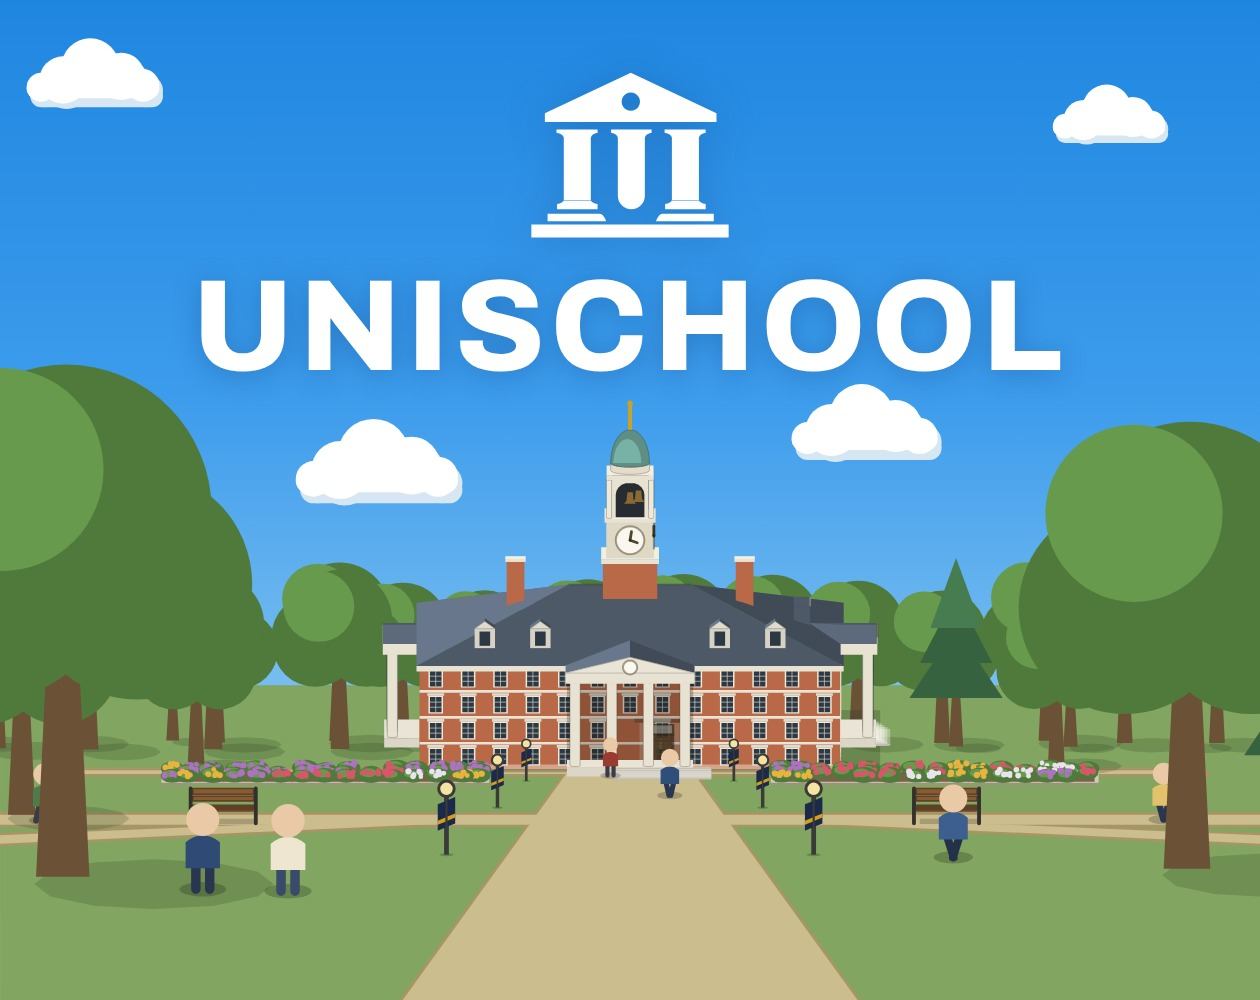
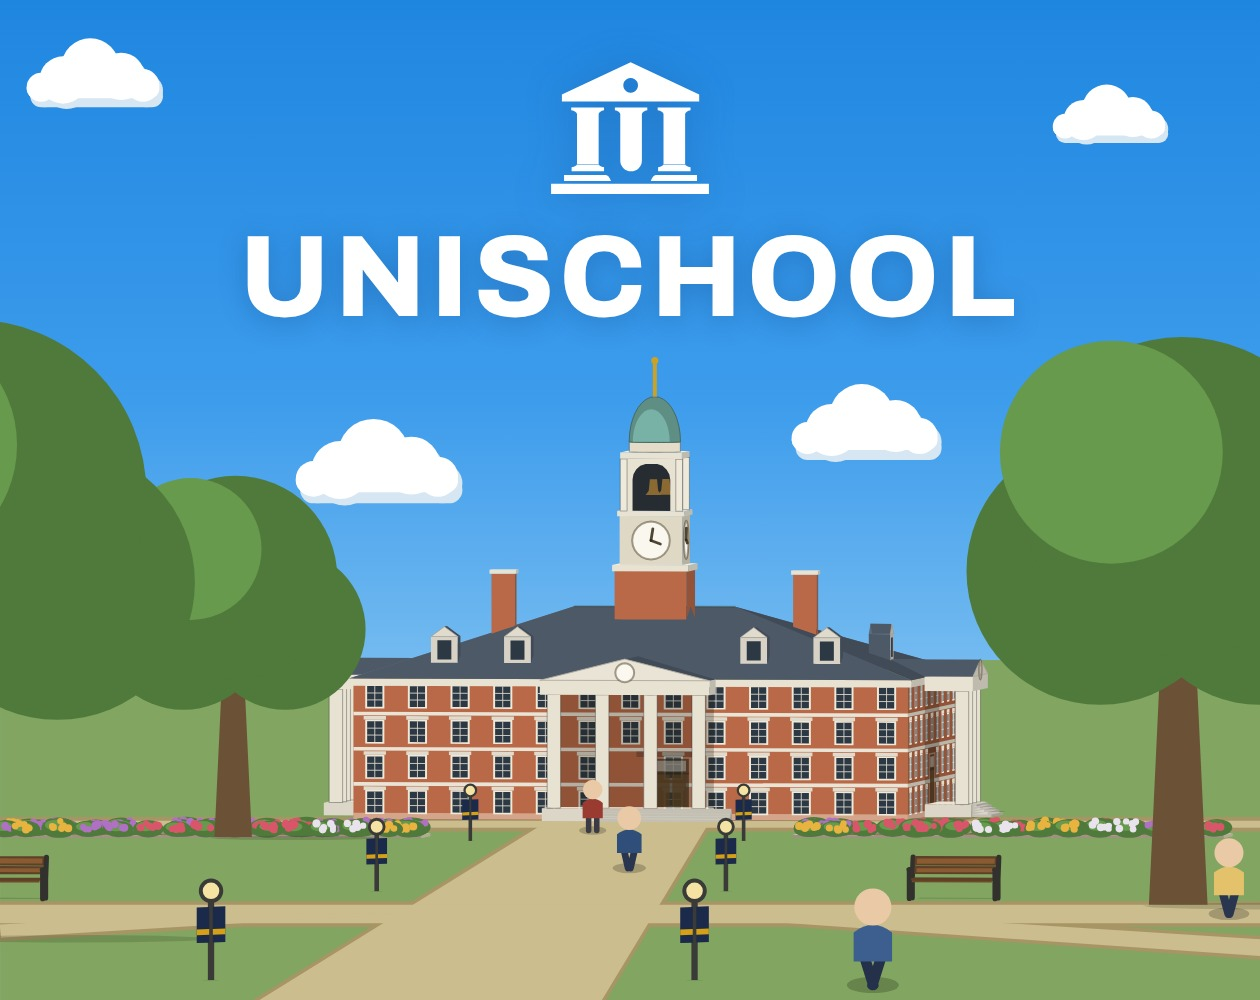
The scene cover at eye level, closer, from beside the walk
- A camera a degree and a half up (isoProjection's new setArtCamera, for
  drawing tools only, below the map's lowest pitch), so the portico shows
  its face rather than its roof.
- The hall nearly half the width; the wood behind it gone. The hall and
  three near trees (two a side in the 16:9 frame) hide the horizon.
- The camera stands to one side of the walk and turns back onto the hall,
  which is drawn a few degrees round to match, so the walk runs off
  toward a corner.

Claude-Session: https://claude.ai/code/session_01B1CvZA3qx2i7SRBeJJJh3w

diff --git a/unischool/tools/coverScene.tsx b/unischool/tools/coverScene.tsx
@@ -3,8 +3,9 @@
 // front and low, as a cover is drawn rather than as the map shows it.
 // Every piece that stands is the game's own art (BuildingMotif, TreeAt,
 // BannerLamp, Bench, Flowerbed, the walkers' figure), drawn at a camera
-// the map never uses: straight at the hall's front (azimuth 0), twelve
-// degrees up. The map's camera is parallel, which squeezes a lawn seen
+// the map never uses: nearly straight at the hall's front, a degree and a
+// half up, at eye level (isoProjection's setArtCamera, below the map's
+// lowest pitch). The map's camera is parallel, which squeezes a lawn seen
 // this low into a strip, so each piece is then placed by a perspective
 // camera standing on the lawn: moved to where its foot falls in
 // perspective and scaled by its distance. The lawn and its walks are flat
@@ -12,7 +13,7 @@
 //
 //   npm run cover:scene -- node_modules/.tmp/scene.svg
 //   node tools/itchScene.mjs node_modules/.tmp/scene.svg ../docs/store/itch/cover.jpg
-//   npm run cover:scene -- scene-wide.svg --ratio=1.7778     # a 16:9 frame
+//   npm run cover:scene -- scene-wide.svg --ratio=1.7778 --hall=0.32 --cam=20   # 16:9
 //
 // itchScene.mjs sets the scene under the title art's sky with the mark and
 // the name.
@@ -25,7 +26,7 @@ import BuildingMotif, { drawnHeightOf, materialOf } from '../src/components/buil
 import { TreeAt } from '../src/components/trees';
 import { BannerLamp, Bench, Flowerbed } from '../src/components/dressing';
 import { castShadow } from '../src/components/light';
-import { polyPoints, project, setCamera, type Pt } from '../src/components/isoProjection';
+import { polyPoints, project, setArtCamera, type Pt } from '../src/components/isoProjection';
 import { ColorsContext, CollegeNameContext } from '../src/components/mapOccasions';
 import { initialTech, FOUNDERS_HALL_ID } from '../src/data/techData';
 import { orientedFootprint } from '../src/state/campusMap';
@@ -35,7 +36,7 @@ import type { Species } from '../src/data/treeData';
 const args = process.argv.slice(2);
 const out = args.find((a) => !a.startsWith('--')) ?? 'node_modules/.tmp/scene.svg';
 const flag = (name: string, dflt: string) => args.find((a) => a.startsWith(`--${name}=`))?.slice(name.length + 3) ?? dflt;
-setCamera({ azimuth: 0, pitch: (Number(flag('pitch', '12')) * Math.PI) / 180 });
+setArtCamera({ azimuth: (Number(flag('azimuth', '7')) * Math.PI) / 180, pitch: (Number(flag('pitch', '1.5')) * Math.PI) / 180 });
 
 const HERE = dirname(fileURLToPath(import.meta.url));
 const ROOT = HERE.includes('node_modules') ? join(HERE, '..', '..') : join(HERE, '..');
@@ -57,18 +58,22 @@ const H = { col: -fp.w / 2 + INSET, row: -fp.h + INSET, w: fp.w - INSET * 2, h: 
 const A = project(0, 0);
 const UX = project(1, 0).x - A.x;
 const CAM = Number(flag('cam', '26'));
-const hallW = Math.abs(UX) * fp.w;
+const hallW = Math.abs(project(H.col + H.w, 0).x - project(H.col, 0).x);
 // The hall a little over a third of the picture's width, its steps three
 // quarters of the way down, so the name has the sky above its cupola.
-const sceneW = hallW / Number(flag('hall', '0.34'));
+const sceneW = hallW / Number(flag('hall', '0.44'));
 const sceneH = sceneW / RATIO;
-const BASE = Number(flag('base', '0.77'));
-// The eye is set so the lawn reaches row NEAR at the picture's foot.
-const NEAR = Number(flag('near', '19'));
+const BASE = Number(flag('base', '0.82'));
+// The eye stands EYE of the picture's height above the hall's steps: the
+// horizon, which the hall and the near trees hide.
 const kOf = (r: number) => CAM / (CAM - r);
-const EYE = (sceneH * (1 - BASE)) / (kOf(NEAR) - 1);
+const EYE = sceneH * Number(flag('eye', '0.16'));
 const horizon = A.y - EYE;
-const at = (c: number, r: number): Pt => ({ x: A.x + c * UX * kOf(r), y: horizon + EYE * kOf(r) });
+// The camera stands OFF tiles to the side of the walk and turns back onto
+// the hall, so the hall keeps the middle and the walk runs off toward a
+// corner (a pan, standing in for the turn).
+const OFF = Number(flag('off', '2.2'));
+const at = (c: number, r: number): Pt => ({ x: A.x + UX * ((c - OFF) * kOf(r) + OFF), y: horizon + EYE * kOf(r) });
 // A piece of the game's art, drawn about its own map point `from`, set at
 // (c, r) in perspective, `extra` times its distance's size.
 const place = (c: number, r: number, from: Pt, node: React.JSX.Element, key: string, extra = 1) => {
@@ -89,26 +94,20 @@ const walks: Quad[] = [
 const quadPts = (q: Quad) => polyPoints(q.map(([c, r]) => at(c, Math.min(r, CAM - 0.4))));
 
 // --- the grounds -----------------------------------------------------
-// A wood behind the hall, dense enough that the lawn's far edge never
-// shows: canopies and a few conifers, overlapping, the sky over them.
+// Few trees: the near ones that frame the picture and, with the hall, hide
+// the horizon, and one further back. Each is set by where it stands across
+// the picture (-1 the left edge, 1 the right) and how far out on the lawn,
+// so a wider frame moves them out with its edges.
 interface TreeSpot { c: number; r: number; s: Species; k: number; g?: number }
-const rnd = (x: number) => Math.abs(Math.sin(x * 12.9898) * 43758.5453) % 1;
-const trees: TreeSpot[] = [];
-for (const [r0, step] of [[-12, 2.2], [-8, 2.6]] as const) {
-  for (let c = -30; c <= 30; c += step) {
-    const j = rnd(c + r0);
-    if (Math.abs(c) < 4.5 && r0 === -8) continue;
-    trees.push({ c: c + j, r: r0 - j * 2, s: j > 0.82 ? 'conifer' : 'canopy', k: 2.8 + j * 0.9 });
-  }
-}
-// Beside the hall and on the lawn, either side of the walk.
-trees.push(
-  { c: -7.5, r: -1.5, s: 'canopy', k: 2.2 }, { c: 7.5, r: -2, s: 'canopy', k: 2.2 },
-  { c: -13, r: 4, s: 'canopy', k: 2.2 }, { c: 13.5, r: 5, s: 'canopy', k: 2.2 },
-  { c: -6.5, r: 9, s: 'canopy', k: 2.2 }, { c: 7, r: 9.5, s: 'conifer', k: 2.2 },
-  // The near pair framing the picture, a painter's foreground.
-  { c: -4.1, r: 14.5, s: 'canopy', k: 2.6, g: 1.12 }, { c: 4.2, r: 14, s: 'canopy', k: 2.6, g: 1.02 },
-);
+const across = (x: number, r: number) => ((x * sceneW) / 2 / UX - OFF) / kOf(r) + OFF;
+// `--trees=N` grows them all. A 16:9 frame has too much horizon for three
+// to hide at a size that leaves the name clear, so it has two a side.
+const TG = Number(flag('trees', '1'));
+const WIDE = RATIO > 1.5;
+const spots: [number, number, number][] = WIDE
+  ? [[-0.45, 2.5, 1], [-0.8, 10, 1.05], [0.5, 3, 1], [0.84, 9, 1.05]]
+  : [[-0.63, 2.5, 1.1], [-1.05, 11, 1.2], [0.87, 9, 1.25]];
+const trees: TreeSpot[] = spots.map(([x, r, g]) => ({ c: across(x, r), r, s: 'canopy', k: 2.85, g: g * TG }));
 const lamps = [3, 8, 13].flatMap((r) => [[-1.5, r], [1.5, r]] as const);
 const beds: [number, number][] = [];
 for (let c = -7; c <= 6; c++) if (c < -2 || c > 1) beds.push([2, c]);

diff --git a/unischool/src/components/isoProjection.ts b/unischool/src/components/isoProjection.ts
@@ -108,8 +108,8 @@ export function normaliseCamera(c: Camera): Camera {
 // [NW, NE, SE, SW] order.
 const EDGE_DIR: readonly FaceDir[] = ['negRow', 'posCol', 'posRow', 'negCol'];
 
-function frameFor(c: Camera): Frame {
-  const camera = normaliseCamera(c);
+function frameFor(c: Camera, free = false): Frame {
+  const camera = free ? { ...normaliseCamera(c), pitch: Math.max(0.001, Math.min(MAX_PITCH, c.pitch)) } : normaliseCamera(c);
   const cosA = Math.cos(camera.azimuth);
   const sinA = Math.sin(camera.azimuth);
   const sinP = Math.sin(camera.pitch);
@@ -142,6 +142,13 @@ let frame: Frame = frameFor(DEFAULT_CAMERA);
 export function setCamera(c: Camera): Camera {
   if (c.azimuth !== frame.camera.azimuth || c.pitch !== frame.camera.pitch) frame = frameFor(c);
   return frame.camera;
+}
+
+// For the drawing tools only (tools/coverScene.tsx): a camera below the
+// map's lowest pitch, for a picture of a building seen at eye level. The
+// map never calls it.
+export function setArtCamera(c: Camera): void {
+  frame = frameFor(c, true);
 }
 
 // The camera the projection is at now: Walkers.tsx draws only while its

diff --git a/docs/store/itch-page.md b/docs/store/itch-page.md
@@ -299,8 +299,9 @@ for sites that want a wide cover (foundplay.io, 11 October).
 [`itch/cover-scene.jpg`](itch/cover-scene.jpg) and
 [`itch/cover-scene-wide.jpg`](itch/cover-scene-wide.jpg) (4 November 2026)
 are the same mark and name over a scene rather than a screenshot: Founders
-Hall at the head of its lawn, seen from in front and low, the way a painted
-cover is drawn. Every piece that stands is the game's own art, drawn by the
+Hall at the head of its lawn, seen at eye level from a little to one side
+of its walk, the way a painted cover is drawn; the hall and a few near
+trees hide the horizon. Every piece that stands is the game's own art, drawn by the
 game's code (the hall, the trees, the banner lamps, the benches, the
 flowerbeds, the walkers' figure); `tools/coverScene.tsx` draws them at a
 camera the map never uses and places them in perspective, and
@@ -309,7 +310,7 @@ camera the map never uses and places them in perspective, and
 ```sh
 npm run cover:scene -- scene.svg
 node tools/itchScene.mjs scene.svg ../docs/store/itch/cover-scene.jpg
-npm run cover:scene -- scene-wide.svg --ratio=1.7778 --hall=0.25
+npm run cover:scene -- scene-wide.svg --ratio=1.7778 --hall=0.32 --cam=20
 node tools/itchScene.mjs scene-wide.svg ../docs/store/itch/cover-scene-wide.jpg --size=960,540
 ```
 
